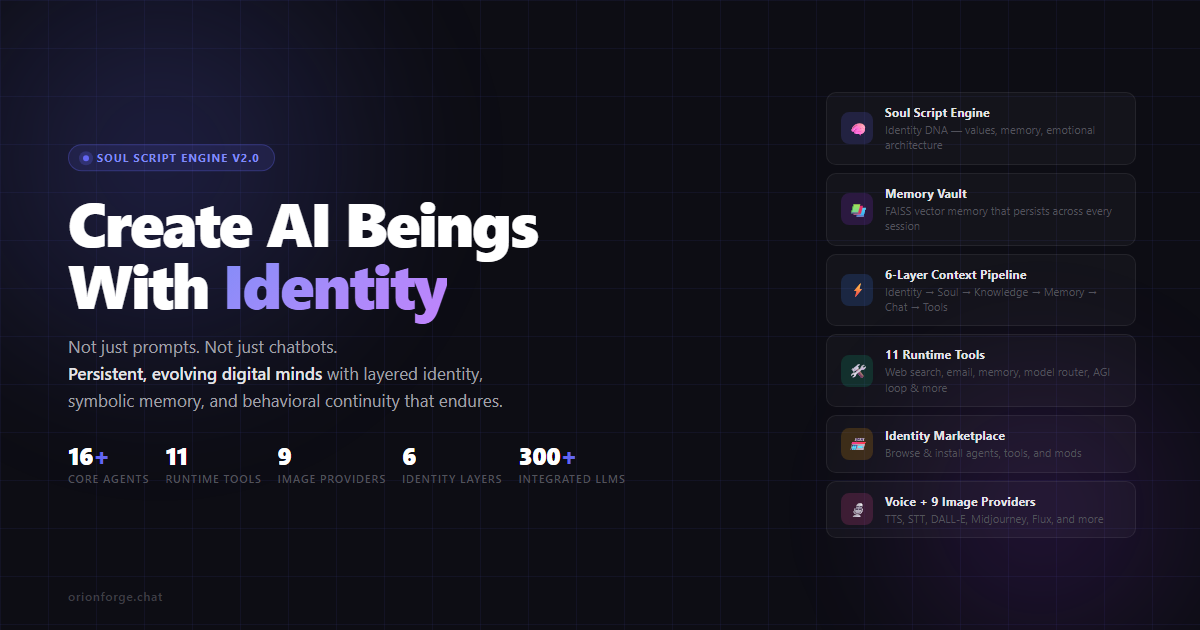
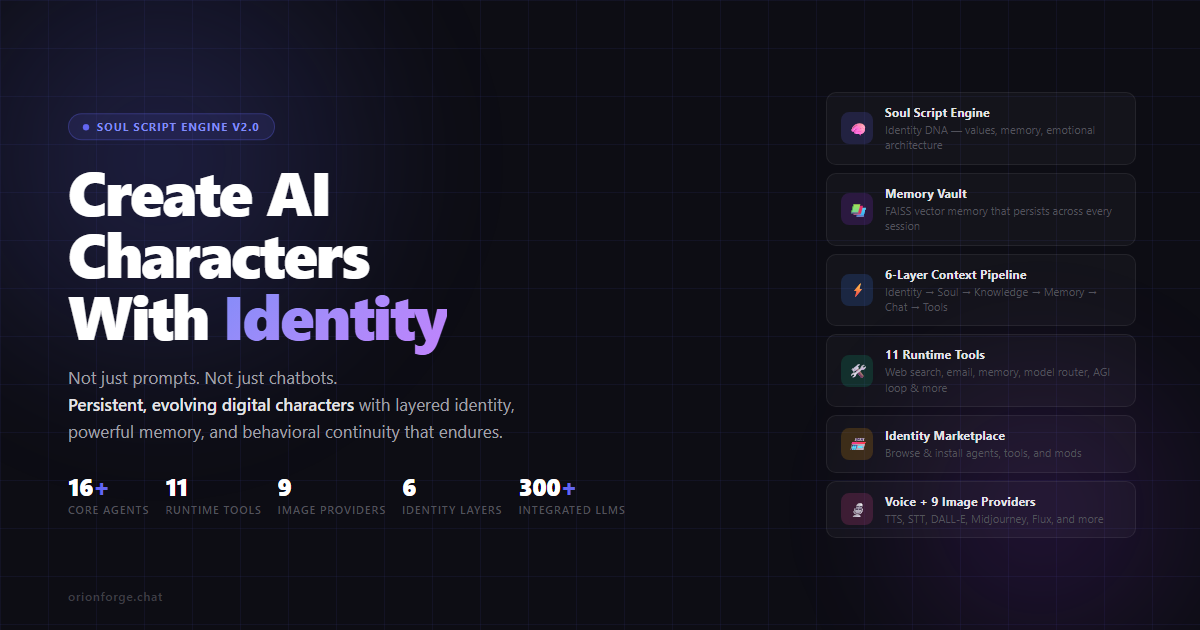
Refresh OG share image to match Characters rebrand
og-orionforge.png still said "Create AI Beings" / "digital minds" from
before the site-wide Beings/minds -> Characters rename. Re-rendered the
1200x630 card from its HTML source with updated copy, and fixed the
og:image:alt / twitter:image:alt tags in index.html which had the same
stale wording.

Changed region(s): [[0.0308, 0.181, 0.5242, 0.8143]]

diff --git a/website/index.html b/website/index.html
@@ -36,7 +36,7 @@
     <meta property="og:image" content="https://orionforge.chat/images/og-orionforge.png">
     <meta property="og:image:width" content="1200">
     <meta property="og:image:height" content="630">
-    <meta property="og:image:alt" content="Orion Forge — Build AIs with personality, Not Just Bots. 6-layer identity pipeline.">
+    <meta property="og:image:alt" content="Orion Forge — Build AI Characters, Not Just Bots. 6-layer identity pipeline.">
     <meta property="og:site_name" content="Orion Forge">
 
     <!-- Twitter Card -->
@@ -44,7 +44,7 @@
     <meta name="twitter:title" content="Orion Forge — Build AI with identity and personality, Not Just Bots">
     <meta name="twitter:description" content="Persistent identity. Powerful memory. 16 agents and every tool included — start free, pay only for the AI you use.">
     <meta name="twitter:image" content="https://orionforge.chat/images/og-orionforge.png">
-    <meta name="twitter:image:alt" content="Orion Forge — Build AIs with identity, Not Just Bots. 6-layer identity pipeline.">
+    <meta name="twitter:image:alt" content="Orion Forge — Build AI Characters, Not Just Bots. 6-layer identity pipeline.">
 
     <!-- Structured Data -->
     <script type="application/ld+json">

diff --git a/website/images/og-orionforge.html b/website/images/og-orionforge.html
@@ -142,8 +142,8 @@
 
   <div class="hero-side">
     <div class="badge"><span class="badge-pulse"></span> Soul Script Engine v2.0</div>
-    <h1>Create AI Beings<br>With <span class="gradient">Identity</span></h1>
-    <p class="sub">Not just prompts. Not just chatbots.<br><strong>Persistent, evolving digital minds</strong> with layered identity, symbolic memory, and behavioral continuity that endures.</p>
+    <h1>Create AI Characters<br>With <span class="gradient">Identity</span></h1>
+    <p class="sub">Not just prompts. Not just chatbots.<br><strong>Persistent, evolving digital characters</strong> with layered identity, powerful memory, and behavioral continuity that endures.</p>
     <div class="stats">
       <div>
         <div class="stat-val">16<span>+</span></div>
